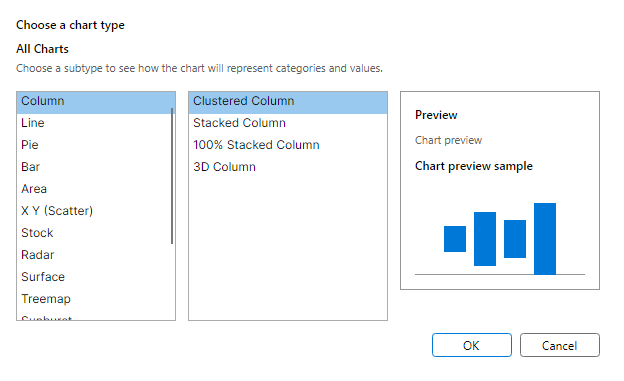
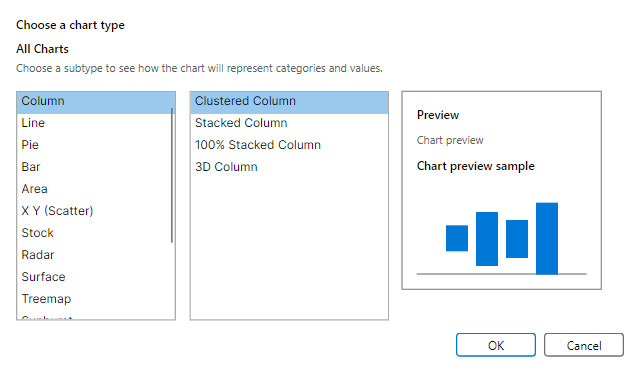
Align ChangeChartType dialog visual evidence

diff --git a/tests/FreeX.App.Avalonia.Tests/AvaloniaChartFormatDialogSourceTests.cs b/tests/FreeX.App.Avalonia.Tests/AvaloniaChartFormatDialogSourceTests.cs
@@ -46,6 +46,9 @@ public sealed class AvaloniaChartFormatDialogSourceTests
         combined.Should().Contain("private bool TryGetSelectedChart(ChartWorkflowCommandDescriptor command");
         combined.Should().Contain("private void ApplyChartLayout(ChartWorkflowCommandDescriptor command");
         combined.Should().Contain("ChartWorkflowCommandCatalog.ChangeChartType");
+        combined.Should().Contain("dialog.Width = ChartTypeChangePlanner.DialogWidth;");
+        combined.Should().Contain("dialog.Height = ChartTypeChangePlanner.DialogHeight;");
+        combined.Should().Contain("dialog.SizeToContent = SizeToContent.Manual;");
         combined.Should().Contain("ChartWorkflowCommandCatalog.SelectDataSource");
         combined.Should().Contain("ChartWorkflowCommandCatalog.MoveChart");
         combined.Should().Contain("ChartWorkflowCommandCatalog.FormatChartArea");

diff --git a/src/FreeX.App.Avalonia/MainWindow.ChartTabs.cs b/src/FreeX.App.Avalonia/MainWindow.ChartTabs.cs
@@ -195,7 +195,11 @@ public sealed partial class MainWindow
         var preview = BuildChartTypePreviewPanel(panel.Preview);
 
         var dialog = NewChartDialog(UiText.Get("ChangeChartType_Title"), "ChangeChartTypeDialog");
-        dialog.MinWidth = 600;
+        dialog.Width = ChartTypeChangePlanner.DialogWidth;
+        dialog.Height = ChartTypeChangePlanner.DialogHeight;
+        dialog.MinWidth = ChartTypeChangePlanner.DialogWidth;
+        dialog.MinHeight = ChartTypeChangePlanner.DialogHeight;
+        dialog.SizeToContent = SizeToContent.Manual;
 
         var (okButton, cancelButton, buttonRow) = CreateChartDialogButtons("ChangeChartType");
         okButton.Click += (_, _) => dialog.Close(subtypeGallery.SelectedItem is ChartTypePickerOptionPlan picked ? (ChartType?)picked.Type : null);

diff --git a/src/FreeX.App.Host/ChartTypeDialogs.Change.cs b/src/FreeX.App.Host/ChartTypeDialogs.Change.cs
@@ -2,6 +2,7 @@ using System.Windows;
 using System.Windows.Controls;
 using System.Windows.Input;
 using System.Windows.Media;
+using FreeX.App.Presentation.Charts.Editing;
 using FreeX.Core.Model;
 
 namespace FreeX.App.Host;
@@ -21,8 +22,8 @@ public sealed class ChangeChartTypeDialog : Window
         SelectedChartType = currentType;
         Result = CreateResult(currentType);
         Title = UiText.Get("ChangeChartType_Title");
-        Width = 640;
-        Height = 390;
+        Width = ChartTypeChangePlanner.DialogWidth;
+        Height = ChartTypeChangePlanner.DialogHeight;
         WindowStartupLocation = WindowStartupLocation.CenterOwner;
         ResizeMode = ResizeMode.NoResize;
         ShowInTaskbar = false;

diff --git a/src/FreeX.App.Presentation/Charts/Editing/ChartTypeChangePlanner.cs b/src/FreeX.App.Presentation/Charts/Editing/ChartTypeChangePlanner.cs
@@ -39,6 +39,12 @@ public readonly record struct ChartTypeChangePlan(ChartType? AppliedType, string
 /// </summary>
 public static class ChartTypeChangePlanner
 {
+    /// <summary>Shared Change Chart Type dialog width used by WPF, Avalonia, and visual evidence checks.</summary>
+    public const double DialogWidth = 640;
+
+    /// <summary>Shared Change Chart Type dialog height used by WPF, Avalonia, and visual evidence checks.</summary>
+    public const double DialogHeight = 390;
+
     // English display labels and shell-localization keys for every renderer-authorable family, in a stable gallery-style order.
     private static readonly (ChartType Type, string DisplayName, string DisplayNameKey)[] Catalog =
     [

diff --git a/tests/FreeX.App.Presentation.Tests/Charts/ChartEditingPlannerTests.cs b/tests/FreeX.App.Presentation.Tests/Charts/ChartEditingPlannerTests.cs
@@ -164,6 +164,13 @@ public sealed class ChartEditingPlannerTests
     }
 
     [Fact]
+    public void TypeChange_DialogFrameSize_MatchesPairedVisualEvidenceContract()
+    {
+        ChartTypeChangePlanner.DialogWidth.Should().Be(640);
+        ChartTypeChangePlanner.DialogHeight.Should().Be(390);
+    }
+
+    [Fact]
     public void TypePicker_SupportedOptions_CarryLocalizationKeysAndRecommendationFlags()
     {
         var options = ChartTypePickerPlanner.GetSupportedOptions();

diff --git a/docs/parity/dialog-visual-evidence-summary.md b/docs/parity/dialog-visual-evidence-summary.md
@@ -31,20 +31,20 @@ Sources:
 | WPF manifest ids without Avalonia pair | 0 |
 | Avalonia-manifest-only screenshot surface ids needing WPF manifest pair | 0 |
 | Nonblank PNG check failures | 0 |
-| Paired dimension mismatches (scale-aware logical units) | 19 |
+| Paired dimension mismatches (scale-aware logical units) | 18 |
 | Raw PNG pixel dimension mismatches | 50 |
-| Raw PNG mismatches normalized by capture DPI | 31 |
+| Raw PNG mismatches normalized by capture DPI | 32 |
 | Paired expected-size evidence mismatches | 0 |
 | Stale promoted expected-size evidence | 0 |
-| Policy-accepted native/control differences | 19 |
+| Policy-accepted native/control differences | 18 |
 
 ## Scale-Aware Dimension Mismatch Classification
 
-The 19 scale-aware logical dimension mismatches are bucketed from committed PNG evidence and deterministic surface-id rules. Buckets describe the next review posture: align real layout sizes, fix content/state drift before comparing, accept policy-approved platform/native control differences, or refresh limited evidence. Policy-accepted native/control rows are explicit accepted variance, not incomplete parity work.
+The 18 scale-aware logical dimension mismatches are bucketed from committed PNG evidence and deterministic surface-id rules. Buckets describe the next review posture: align real layout sizes, fix content/state drift before comparing, accept policy-approved platform/native control differences, or refresh limited evidence. Policy-accepted native/control rows are explicit accepted variance, not incomplete parity work.
 
 | Bucket | Count | Policy accepted | Top surface ids | Top next action |
 | --- | ---: | --- | --- | --- |
-| expected platform/native difference | 19 | True | dialog.FindReplace.Replace<br>dialog.FindReplace<br>dialog.FindReplace.Find<br>dialog.Sparkline<br>dialog.Options.QuickAccessToolbar | Policy accepted as native/control variance; keep tracked separately from content, evidence, or real logical-size mismatches. |
+| expected platform/native difference | 18 | True | dialog.FindReplace.Replace<br>dialog.FindReplace<br>dialog.FindReplace.Find<br>dialog.Sparkline<br>dialog.Options.QuickAccessToolbar | Policy accepted as native/control variance; keep tracked separately from content, evidence, or real logical-size mismatches. |
 
 ## Policy-Accepted Native/Control Differences
 
@@ -52,7 +52,6 @@ These rows were reviewed against the committed WPF/Avalonia PNG pairs and are re
 
 | Family | Count | Surface ids | Rationale | Clear criteria |
 | --- | ---: | --- | --- | --- |
-| Chart type picker controls | 1 | dialog.ChangeChartType | The paired screenshots show the same chart-type list and preview state; the remaining delta is default list, preview, and dialog chrome metrics. | Clear only if both shells adopt an explicit shared fixed capture size and the paired screenshots remain content-equivalent. |
 | Export options native spacing | 1 | dialog.ExportOptions | The paired screenshots show the same export-option choices; the remaining height delta is platform label/control spacing. | Clear only if both shells adopt an explicit shared fixed capture size and the paired screenshots remain content-equivalent. |
 | Find/Replace native control stack | 3 | dialog.FindReplace<br>dialog.FindReplace.Find<br>dialog.FindReplace.Replace | The paired screenshots show the same Find/Replace fields and actions; the remaining height delta is native textbox/button spacing and tab-host chrome. | Clear only if both shells adopt an explicit shared fixed capture size and the paired screenshots remain content-equivalent. |
 | Options host frame | 12 | dialog.Options<br>dialog.Options.AddIns<br>dialog.Options.Advanced<br>dialog.Options.CustomizeRibbon<br>dialog.Options.EaseOfAccess<br>dialog.Options.General<br>dialog.Options.Language<br>dialog.Options.Proofing<br>dialog.Options.QuickAccessToolbar<br>dialog.Options.Save<br>dialog.Options.TrustCenter<br>dialog.Options.View | The paired screenshots show the same Options navigation/content contract; the remaining delta is the WPF options host frame versus the Avalonia host frame and default control spacing. | Clear only if both shells adopt an explicit shared fixed capture size and the paired screenshots remain content-equivalent. |
@@ -80,7 +79,6 @@ Outliers are ranked by a deterministic triage score: normalized 32x32 ARGB sampl
 
 | Surface id | Bucket | Policy family | WPF logical size | Avalonia logical size | Logical delta | Reason | Next action |
 | --- | --- | --- | ---: | ---: | ---: | --- | --- |
-| dialog.ChangeChartType | expected platform/native difference | Chart type picker controls | 640x390 | 624x381 | 16x9 | The paired screenshots show the same chart-type list and preview state; the remaining delta is default list, preview, and dialog chrome metrics. | Policy accepted as native/control variance; keep tracked separately from content, evidence, or real logical-size mismatches. |
 | dialog.ExportOptions | expected platform/native difference | Export options native spacing | 430x542 | 430x552 | 0x10 | The paired screenshots show the same export-option choices; the remaining height delta is platform label/control spacing. | Policy accepted as native/control variance; keep tracked separately from content, evidence, or real logical-size mismatches. |
 | dialog.FindReplace | expected platform/native difference | Find/Replace native control stack | 720x430 | 720x440 | 0x10 | The paired screenshots show the same Find/Replace fields and actions; the remaining height delta is native textbox/button spacing and tab-host chrome. | Policy accepted as native/control variance; keep tracked separately from content, evidence, or real logical-size mismatches. |
 | dialog.FindReplace.Find | expected platform/native difference | Find/Replace native control stack | 720x430 | 720x440 | 0x10 | The paired screenshots show the same Find/Replace fields and actions; the remaining height delta is native textbox/button spacing and tab-host chrome. | Policy accepted as native/control variance; keep tracked separately from content, evidence, or real logical-size mismatches. |
@@ -117,7 +115,7 @@ These rows have a DPI-normalized checked-in PNG size that disagrees with the dia
 | dialog.AdvancedFilter | dialog.AdvancedFilter.png | 420x340 | 630x510 px @ 144 DPI | True | dialog.AdvancedFilter.png | 420x340 | 420x340 px @ 96 DPI | True | True | 0.057 |
 | dialog.AllowEditRanges | dialog.AllowEditRanges.png | 430x360 | 645x540 px @ 144 DPI | True | dialog.AllowEditRanges.png | 430x360 | 430x360 px @ 96 DPI | True | True | 0.187 |
 | dialog.AutoFilter | dialog.AutoFilter.png | 312x436.689 | 468x655 px @ 144 DPI | True | dialog.AutoFilter.png | 312x437 | 312x437 px @ 96 DPI | True | True | 0.054 |
-| dialog.ChangeChartType | dialog.ChangeChartType.png | 640x390 | 960x585 px @ 144 DPI | True | dialog.ChangeChartType.png | 624x381 | 624x381 px @ 96 DPI | True | False | 0.240 |
+| dialog.ChangeChartType | dialog.ChangeChartType.png | 640x390 | 960x585 px @ 144 DPI | True | dialog.ChangeChartType.png | 640x390 | 640x390 px @ 96 DPI | True | True | 0.070 |
 | dialog.ConditionalFormatManage | dialog.ConditionalFormatManage.png | 560x420 | 840x630 px @ 144 DPI | True | dialog.ConditionalFormatManage.png | 560x420 | 560x420 px @ 96 DPI | True | True | 0.074 |
 | dialog.ConditionalFormatNewRule | dialog.ConditionalFormatNewRule.png | 634x334 | 634x334 px @ 96 DPI | True | dialog.ConditionalFormatNewRule.png | 634x334 | 634x334 px @ 96 DPI | True | True | 0.176 |
 | dialog.Consolidate | dialog.Consolidate.png | 380x420 | 570x630 px @ 144 DPI | True | dialog.Consolidate.png | 380x420 | 380x420 px @ 96 DPI | True | True | 0.126 |

diff --git a/docs/parity/avalonia-wpf-cross-app-dashboard.md b/docs/parity/avalonia-wpf-cross-app-dashboard.md
@@ -6,7 +6,7 @@ Generated by `tools/Generate-CrossAppParityDashboard.ps1` from existing generate
 
 | App | Primary evidence | Current generated state | Next slice |
 |---|---|---|---|
-| FreeX | Functional matrix, classifier, dialog inventory, dialog visual evidence, command surface | 531 functional commands; 473 parity; 0 Avalonia-missing; 0 real classified binding gaps; 48 catalog-backed pseudo-gallery rows (34 conditional-format, 10 font/border, 4 accounting-symbol); 57/57 dialog routes captured on WPF and Avalonia; 93 paired screenshot surface ids, 0 Avalonia-only ids, 0 WPF-only ids; 50 raw PNG pixel mismatches, 31 DPI-normalized matches, 19 policy-accepted native/control differences, 0 content/visual mismatches, 0 evidence limitations, 0 real logical-size mismatches | Command/dialog route coverage is green; all 48 pseudo-gallery rows are catalog-backed in classifier evidence (34 conditional-format rows over 38 runtime catalog items, 10 font/border rows, and 4 accounting-symbol rows), and dialog screenshot evidence has 93 paired WPF/Avalonia manifest surface ids with 0 Avalonia-only ids. Keep the 50 raw PNG pixel mismatches separate from missing-pair status: 31 normalize away by capture DPI, while 19 scale-aware paired mismatches remain, with 19 policy-accepted native/control rows, 0 content/visual mismatches, 0 evidence limitations, 0 real logical-size mismatches, and 0 stale promoted expected-size evidence rows. |
+| FreeX | Functional matrix, classifier, dialog inventory, dialog visual evidence, command surface | 531 functional commands; 473 parity; 0 Avalonia-missing; 0 real classified binding gaps; 48 catalog-backed pseudo-gallery rows (34 conditional-format, 10 font/border, 4 accounting-symbol); 57/57 dialog routes captured on WPF and Avalonia; 93 paired screenshot surface ids, 0 Avalonia-only ids, 0 WPF-only ids; 50 raw PNG pixel mismatches, 32 DPI-normalized matches, 18 policy-accepted native/control differences, 0 content/visual mismatches, 0 evidence limitations, 0 real logical-size mismatches | Command/dialog route coverage is green; all 48 pseudo-gallery rows are catalog-backed in classifier evidence (34 conditional-format rows over 38 runtime catalog items, 10 font/border rows, and 4 accounting-symbol rows), and dialog screenshot evidence has 93 paired WPF/Avalonia manifest surface ids with 0 Avalonia-only ids. Keep the 50 raw PNG pixel mismatches separate from missing-pair status: 32 normalize away by capture DPI, while 18 scale-aware paired mismatches remain, with 18 policy-accepted native/control rows, 0 content/visual mismatches, 0 evidence limitations, 0 real logical-size mismatches, and 0 stale promoted expected-size evidence rows. |
 | FreeW | Generated command inventory | 854 commands; 372 shared-profile; 0 actionable WPF-missing; 0 actionable Avalonia-missing; 451 profile-shape-only; 19 command-id aliases; 12 platform-only; 0 deferred | Backstage print/export now has strict paired WPF/Avalonia renderer contracts plus a July 13 no-Word real-capture smoke run for print-preview and PDF-export fidelity. Next FreeW evidence slices are the same run with real Word PNG baselines on a Word-capable host, cleanup of unrelated all-up visual runner drift, and broader visual proof beyond Backstage print/export. |
 | FreeP | Generated command/evidence inventory | 122 commands; 116 shared-profile; 0 actionable WPF-missing; 0 actionable Avalonia-missing; 6 platform-only; 33 workflow evidence rows | Layout picker, table picker, rich inline table/text editing, shared visible list galleries, picture-bullet import/rendering plus picker/media authoring, slide-pane reorder, bottom New Slide, notes-page preview/PDF rendering, fixed-layout PDF connector, image, triangle-arrowhead, and rotation export, export/backstage package-handoff, presenter recording backend contracts plus capture-adapter readiness and paired backend injection, captured PPTX media and generated WebVTT caption artifact authoring, focused PowerPoint-native caption package retention including external caption relationship metadata, shared chart number/date label rendering plus edge/mixed manual-layout bounds, SmartArt basic hierarchy plus vertical bullet list plus basic cycle plus radial cycle plus gear cycle plus text cycle plus basic, continuous block, segmented, and chevron process plus basic block list plus vertical box list plus stacked list plus bounded pictureCaptionList live layout, header/footer placeholder creation plus inherited layout/master geometry, title-slide suppression, fixed/auto date options, shared OMML matrix spacing/base alignment, delimiter grow semantics, accent/bar render-plan coverage, manual line breaks, and transparent phantom spacing classes, ink execution with repeated custom-show route retention, modern comments/review with shared mention candidate and insertion planning, accessibility/proofing workflow depth, and animation-pane row/playback workflow evidence now have WPF/Avalonia no-COM evidence paths. Continue workflow-depth slices in real OS microphone/camera implementations, chart visual baselines and type-specific chart decisions, remaining SmartArt layout geometry and authoring/editing, remaining OMML structure/layout and PowerPoint-authoritative math visual-baseline coverage, broader PowerPoint-native media/caption package baselines, broader PowerPoint-authoritative PDF visual baselines, and PowerPoint-authoritative animation-pane visual/playback baselines. |
 
